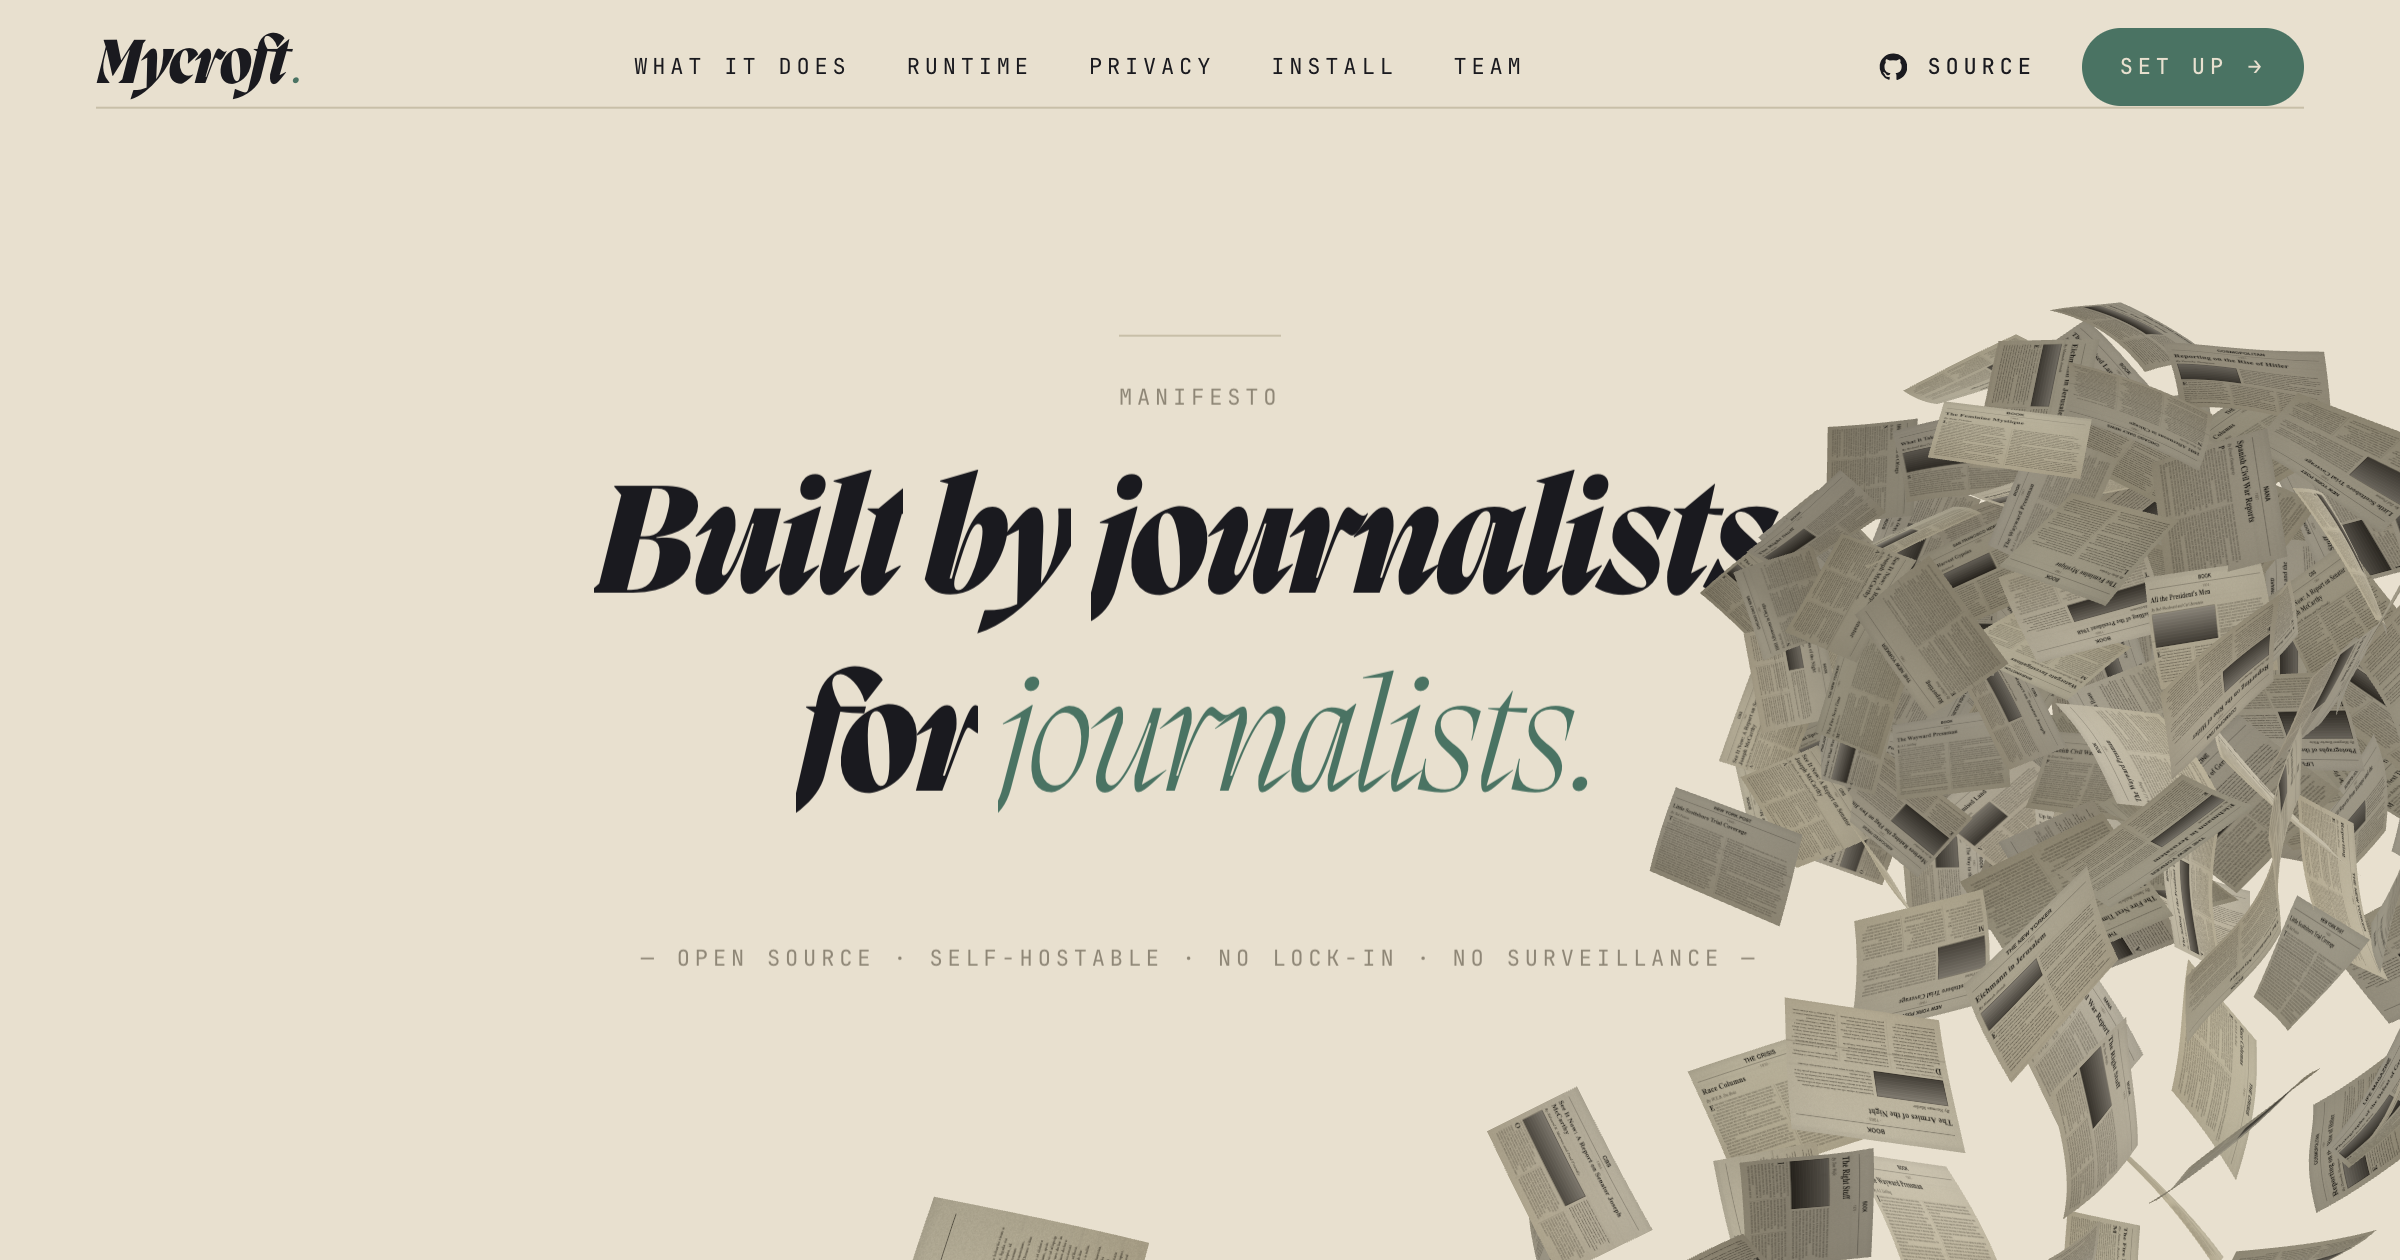
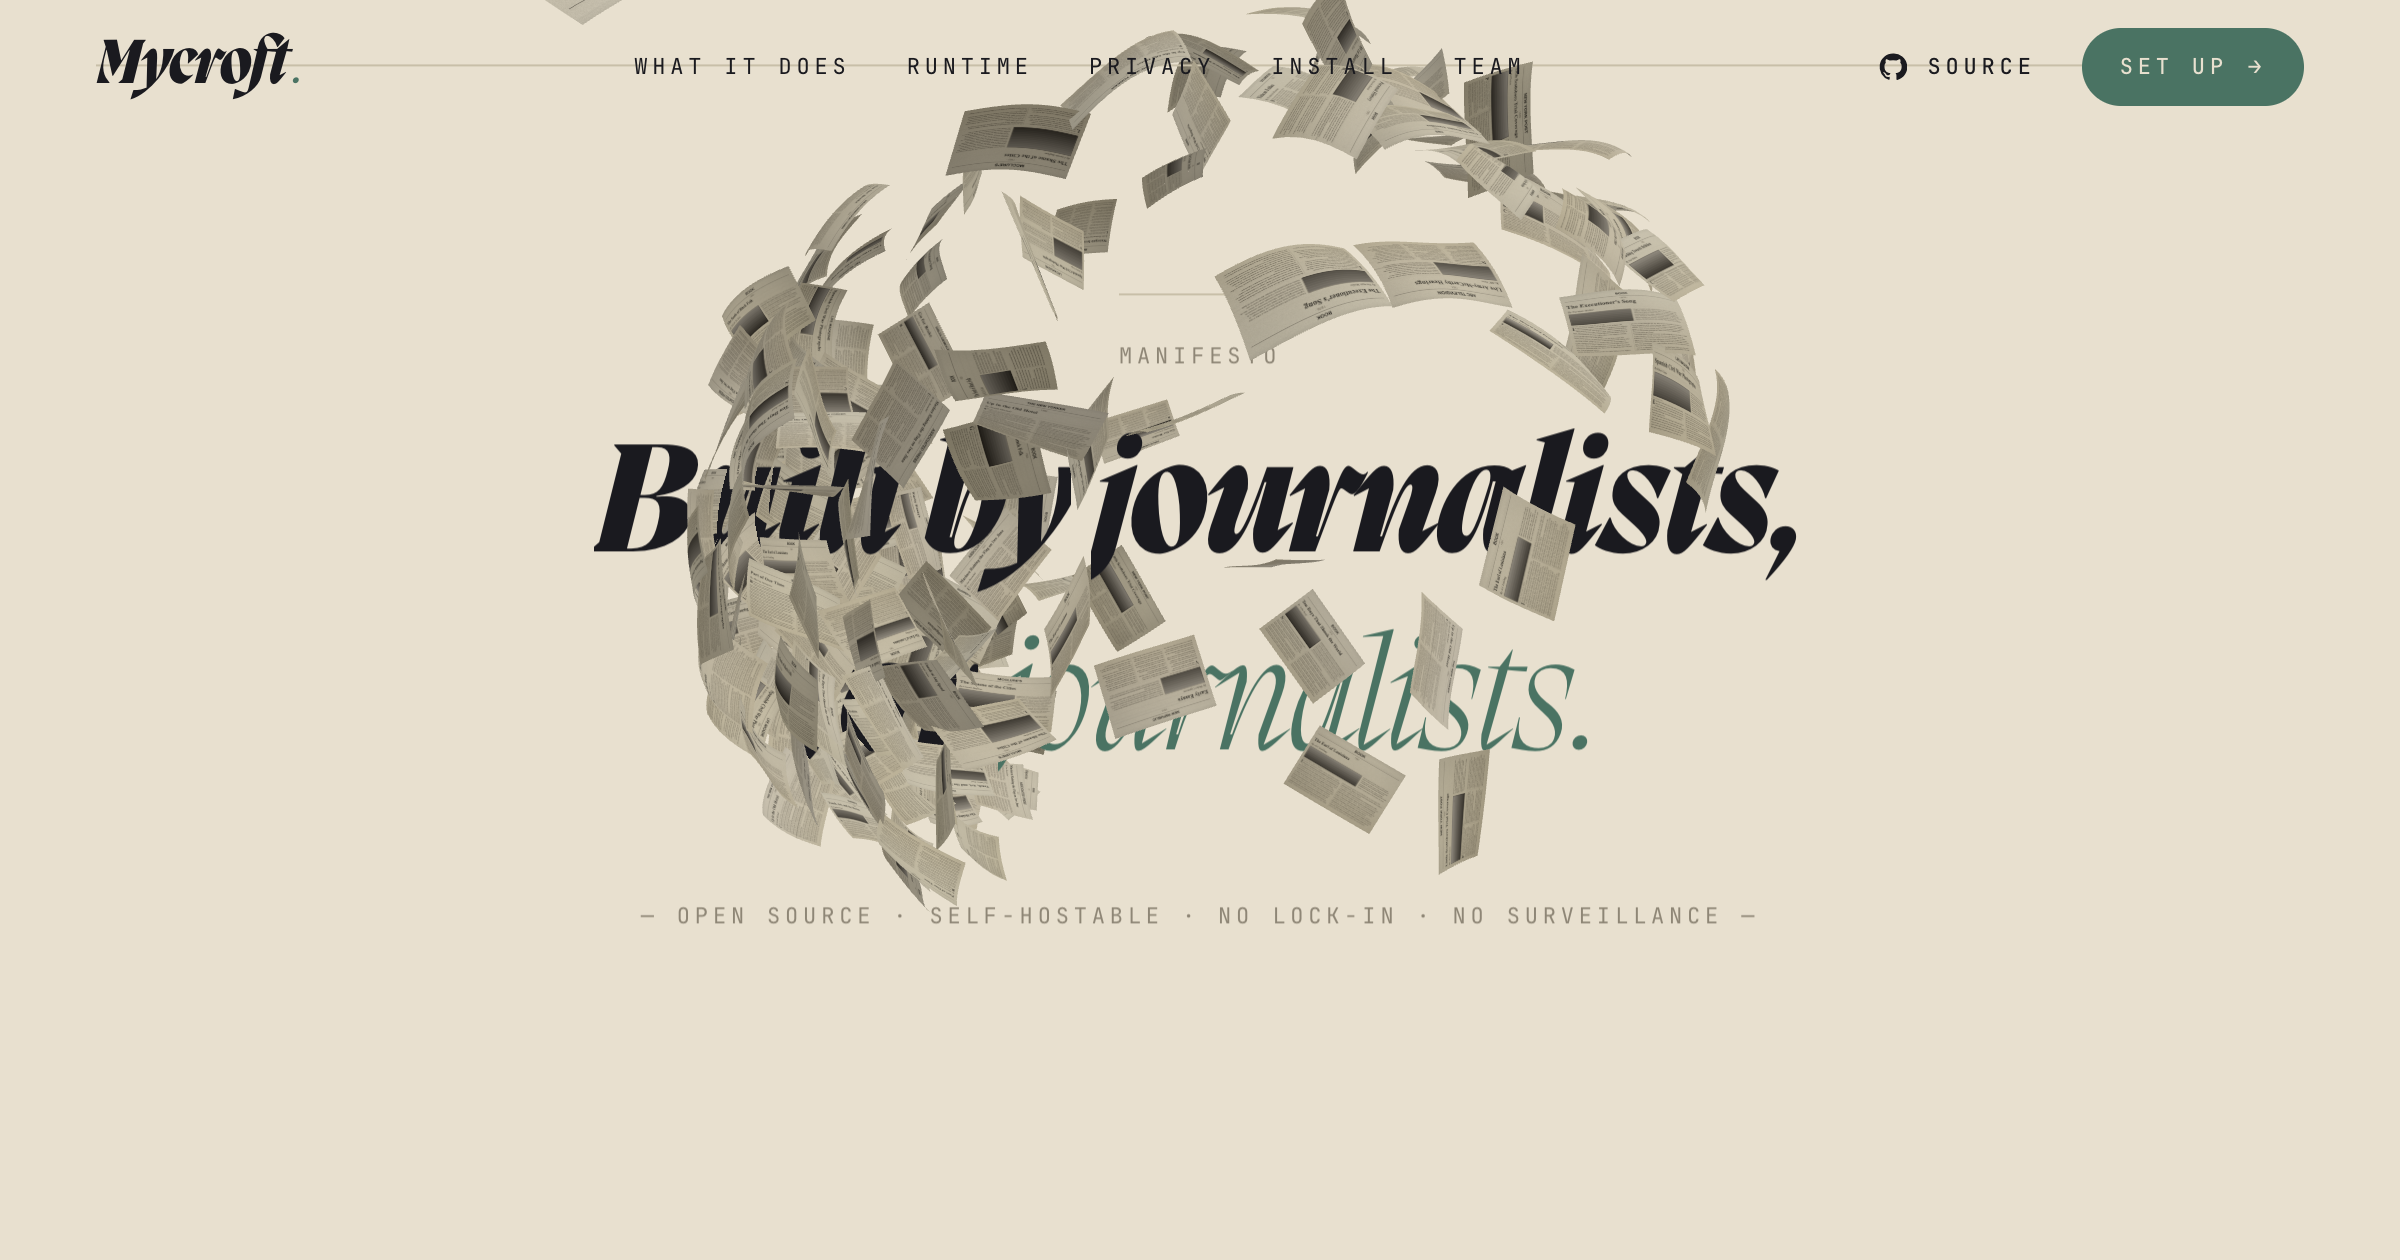
fix(landing): mobile sphere placement, equation stack, signup align, dark bg sync

diff --git a/index.html b/index.html
@@ -1291,6 +1291,7 @@ main,
 /* ── 11 · Equation (Runtime) ─────────────────────────────────── */
 .equation {
   display: flex;
+  flex-direction: column;
   flex-wrap: wrap;
   align-items: center;
   justify-content: center;
@@ -1298,6 +1299,12 @@ main,
   padding: clamp(48px, 8vh, 120px) 0 clamp(32px, 6vh, 64px);
   border-top: var(--hairline);
   border-bottom: var(--hairline);
+}
+@media (min-width: 700px) {
+  .equation {
+    flex-direction: row;
+    flex-wrap: wrap;
+  }
 }
 @media (min-width: 980px) {
   .equation {
@@ -1551,6 +1558,7 @@ main,
 /* ── 14 · Signup ─────────────────────────────────────────────── */
 .signup {
   display: flex;
+  align-items: stretch;
   gap: var(--sp-2);
   width: var(--col-1);
   max-width: 100%;
@@ -1559,14 +1567,17 @@ main,
 .signup__input {
   flex: 1 1 200px;
   min-width: 0;
-  padding: 12px 16px;
+  height: 39px;
+  padding: 0 16px;
   border: 1px solid var(--ink);
   border-radius: var(--rad-pill);
   background: transparent;
   color: var(--ink);
   font: inherit;
   font-size: 14px;
+  line-height: 1;
   outline: none;
+  box-sizing: border-box;
   transition: border-color var(--dur-1) var(--ease);
 }
 .signup__input:focus {
@@ -7096,22 +7107,29 @@ function boot() {
   const VELLUM = new THREE.Color("#e8e0cf");
   const PIGMENT = new THREE.Color("#131013");
   const BG_WIDTH = 4096;
-  sections.forEach((s) => {
-    // Class-based mapping so adding/removing sections doesn't shift the
-    // dark slab to the wrong index.
+  const bgMeshes = sections.map((s) => {
     const color = s.el.classList.contains("sec--dark") ? PIGMENT : VELLUM;
     const mesh = new THREE.Mesh(
-      new THREE.PlaneGeometry(BG_WIDTH, s.height + 2),
+      new THREE.PlaneGeometry(1, 1),
       new THREE.MeshBasicMaterial({
         color,
         depthTest: false,
         depthWrite: false,
       }),
     );
-    mesh.position.set(0, -s.centerY, -50);
     mesh.renderOrder = -1000;
     sceneBack.add(mesh);
+    return { mesh, el: s.el };
   });
+  function syncBgMeshes() {
+    for (const { mesh, el } of bgMeshes) {
+      const h = el.offsetHeight;
+      const cy = el.offsetTop + h / 2;
+      mesh.scale.set(BG_WIDTH, h, 1);
+      mesh.position.set(0, -cy, -50);
+    }
+  }
+  syncBgMeshes();
 
   sceneBack.add(camera);
 
@@ -7187,7 +7205,7 @@ function boot() {
             marginX: 0,
             marginY: 0,
             offsetX: 110, // center-right
-            offsetY: 220, // up at title level (hero centerY → titles area)
+            offsetY: 80,
             offsetZ: 60,
             swirlStrength: 0,
           }
@@ -7313,12 +7331,23 @@ function boot() {
     const newH = pageEl.offsetHeight || pageHeight;
     sentinel.style.height = newH + "px";
     pageObject.position.y = -newH / 2;
+    syncBgMeshes();
+    for (const a of anchors) {
+      const cy = a.el.offsetTop + a.el.offsetHeight / 2;
+      a.back.position.y = -cy;
+      a.front.position.y = -cy;
+      a.height = a.el.offsetHeight;
+      a.centerY = cy;
+    }
     onScroll();
   }
   window.addEventListener("resize", onResize);
   rendererBack.setSize(viewportW, viewportH);
   rendererHTML.setSize(viewportW, viewportH);
   rendererFront.setSize(viewportW, viewportH);
+  if (document.fonts && document.fonts.ready) {
+    document.fonts.ready.then(() => onResize());
+  }
 
   /* ── 14. animation loop ─────────────────────────────────────── */
   const clock = new THREE.Clock();